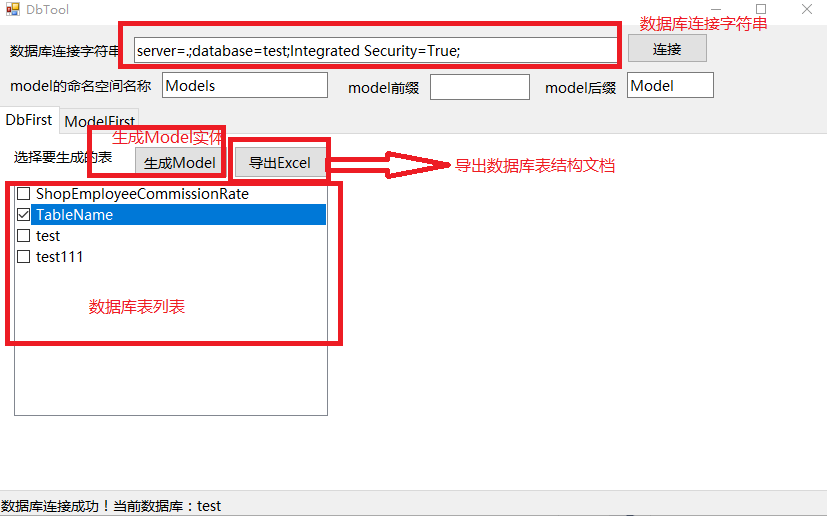
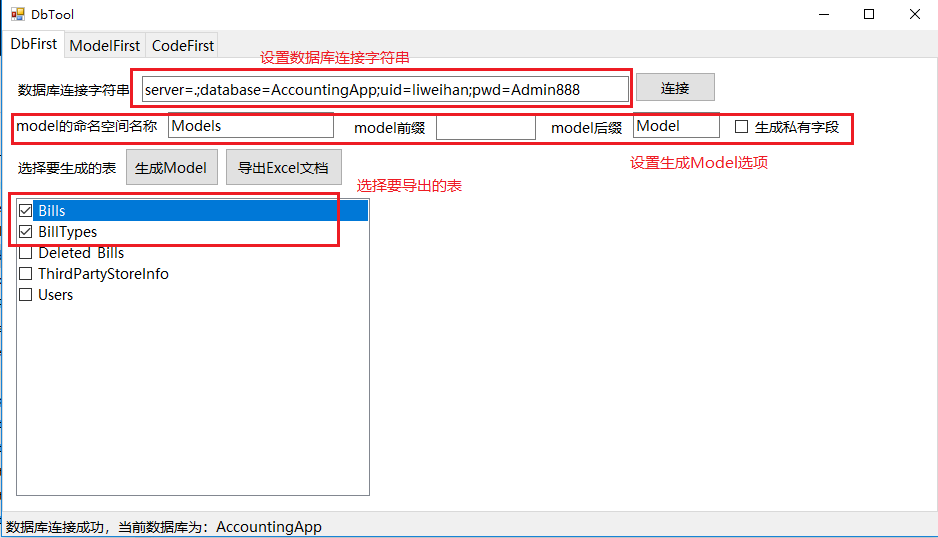
ui 优化

diff --git a/DbTool/MainForm.Designer.cs b/DbTool/MainForm.Designer.cs
@@ -78,8 +78,7 @@
             // lblConnStatus
             // 
             this.lblConnStatus.AutoSize = true;
-            this.lblConnStatus.Dock = System.Windows.Forms.DockStyle.Bottom;
-            this.lblConnStatus.Location = new System.Drawing.Point(0, 486);
+            this.lblConnStatus.Location = new System.Drawing.Point(3, 427);
             this.lblConnStatus.Name = "lblConnStatus";
             this.lblConnStatus.Size = new System.Drawing.Size(107, 20);
             this.lblConnStatus.TabIndex = 6;
@@ -93,7 +92,7 @@
             this.tabControl1.Location = new System.Drawing.Point(0, 0);
             this.tabControl1.Name = "tabControl1";
             this.tabControl1.SelectedIndex = 0;
-            this.tabControl1.Size = new System.Drawing.Size(938, 483);
+            this.tabControl1.Size = new System.Drawing.Size(938, 509);
             this.tabControl1.TabIndex = 7;
             // 
             // tabDbPage
@@ -112,10 +111,11 @@
             this.tabDbPage.Controls.Add(this.txtNamespace);
             this.tabDbPage.Controls.Add(this.label4);
             this.tabDbPage.Controls.Add(this.label5);
+            this.tabDbPage.Controls.Add(this.lblConnStatus);
             this.tabDbPage.Location = new System.Drawing.Point(4, 29);
             this.tabDbPage.Name = "tabDbPage";
             this.tabDbPage.Padding = new System.Windows.Forms.Padding(3);
-            this.tabDbPage.Size = new System.Drawing.Size(930, 450);
+            this.tabDbPage.Size = new System.Drawing.Size(930, 476);
             this.tabDbPage.TabIndex = 0;
             this.tabDbPage.Text = "DbFirst";
             this.tabDbPage.UseVisualStyleBackColor = true;
@@ -169,7 +169,7 @@
             this.cbTables.FormattingEnabled = true;
             this.cbTables.Location = new System.Drawing.Point(10, 139);
             this.cbTables.Name = "cbTables";
-            this.cbTables.Size = new System.Drawing.Size(354, 298);
+            this.cbTables.Size = new System.Drawing.Size(327, 277);
             this.cbTables.TabIndex = 17;
             // 
             // btnExportExcel
@@ -261,7 +261,7 @@
             this.tabModelPage.Location = new System.Drawing.Point(4, 29);
             this.tabModelPage.Name = "tabModelPage";
             this.tabModelPage.Padding = new System.Windows.Forms.Padding(3);
-            this.tabModelPage.Size = new System.Drawing.Size(930, 450);
+            this.tabModelPage.Size = new System.Drawing.Size(930, 476);
             this.tabModelPage.TabIndex = 1;
             this.tabModelPage.Text = "ModelFirst";
             this.tabModelPage.UseVisualStyleBackColor = true;
@@ -435,7 +435,7 @@
             this.tabCodePage.Location = new System.Drawing.Point(4, 29);
             this.tabCodePage.Name = "tabCodePage";
             this.tabCodePage.Padding = new System.Windows.Forms.Padding(3);
-            this.tabCodePage.Size = new System.Drawing.Size(930, 450);
+            this.tabCodePage.Size = new System.Drawing.Size(930, 476);
             this.tabCodePage.TabIndex = 2;
             this.tabCodePage.Text = "CodeFirst";
             this.tabCodePage.UseVisualStyleBackColor = true;
@@ -464,7 +464,6 @@
             this.txtCodeModelSql.Location = new System.Drawing.Point(234, 65);
             this.txtCodeModelSql.Multiline = true;
             this.txtCodeModelSql.Name = "txtCodeModelSql";
-            this.txtCodeModelSql.ReadOnly = true;
             this.txtCodeModelSql.ScrollBars = System.Windows.Forms.ScrollBars.Vertical;
             this.txtCodeModelSql.Size = new System.Drawing.Size(686, 379);
             this.txtCodeModelSql.TabIndex = 2;
@@ -485,9 +484,8 @@
             this.AutoScaleMode = System.Windows.Forms.AutoScaleMode.Font;
             this.ClientSize = new System.Drawing.Size(936, 506);
             this.Controls.Add(this.tabControl1);
-            this.Controls.Add(this.lblConnStatus);
             this.Font = new System.Drawing.Font("微软雅黑", 10.5F, System.Drawing.FontStyle.Regular, System.Drawing.GraphicsUnit.Point, ((byte)(134)));
-            this.Margin = new System.Windows.Forms.Padding(4, 5, 4, 5);
+            this.Margin = new System.Windows.Forms.Padding(5);
             this.Name = "MainForm";
             this.Text = "DbTool";
             this.Resize += new System.EventHandler(this.MainForm_Resize);
@@ -500,7 +498,6 @@
             this.tabCodePage.ResumeLayout(false);
             this.tabCodePage.PerformLayout();
             this.ResumeLayout(false);
-            this.PerformLayout();
 
         }
 

diff --git a/DbTool/MainForm.cs b/DbTool/MainForm.cs
@@ -137,19 +137,23 @@ namespace DbTool
             tabControl1.Height = Size.Height;
             tabControl1.Left = 0;
             tabControl1.Top = 0;
-            dataGridView.Left = 5;
-            dataGridView.Width = Size.Width * 9 / 10;
-            dataGridView.Height = tabControl1.Height * 2 / 5;
-            txtGeneratedSqlText.Left = 5;
-            txtGeneratedSqlText.Width = Size.Width * 9 / 10;
-            txtGeneratedSqlText.Height = tabControl1.Height * 2 / 5;
-            txtGeneratedSqlText.Top = dataGridView.Height + dataGridView.Top + 5;
-            cbTables.Height = tabControl1.Height - 100;
-            treeViewTable.Width = Size.Width / 5;
-            treeViewTable.Height = tabControl1.Height * 4 / 5;
+            //DbFirst
+            cbTables.Height = Size.Height - 260;
+            lblConnStatus.Top = cbTables.Height + cbTables.Top + 10;
+            //ModelFirst
+            dataGridView.Left = 10;
+            dataGridView.Width = Size.Width - 40;
+            dataGridView.Height = (Size.Height - 120) / 2;
+            txtGeneratedSqlText.Left = 10;
+            txtGeneratedSqlText.Width = Size.Width - 40;
+            txtGeneratedSqlText.Height = (Size.Height - 120) / 2;
+            txtGeneratedSqlText.Top = dataGridView.Height + dataGridView.Top + 2;
+
+            // CodeFirst
+            treeViewTable.Height = Size.Height - 140;
             txtCodeModelSql.Left = treeViewTable.Width + treeViewTable.Left + 5;
-            txtCodeModelSql.Width = Size.Width * 7 / 10;
-            txtCodeModelSql.Height = tabControl1.Height * 4 / 5;
+            txtCodeModelSql.Width = Size.Width - treeViewTable.Width - 60;
+            txtCodeModelSql.Height = Size.Height - 140;
         }
 
         /// <summary>
